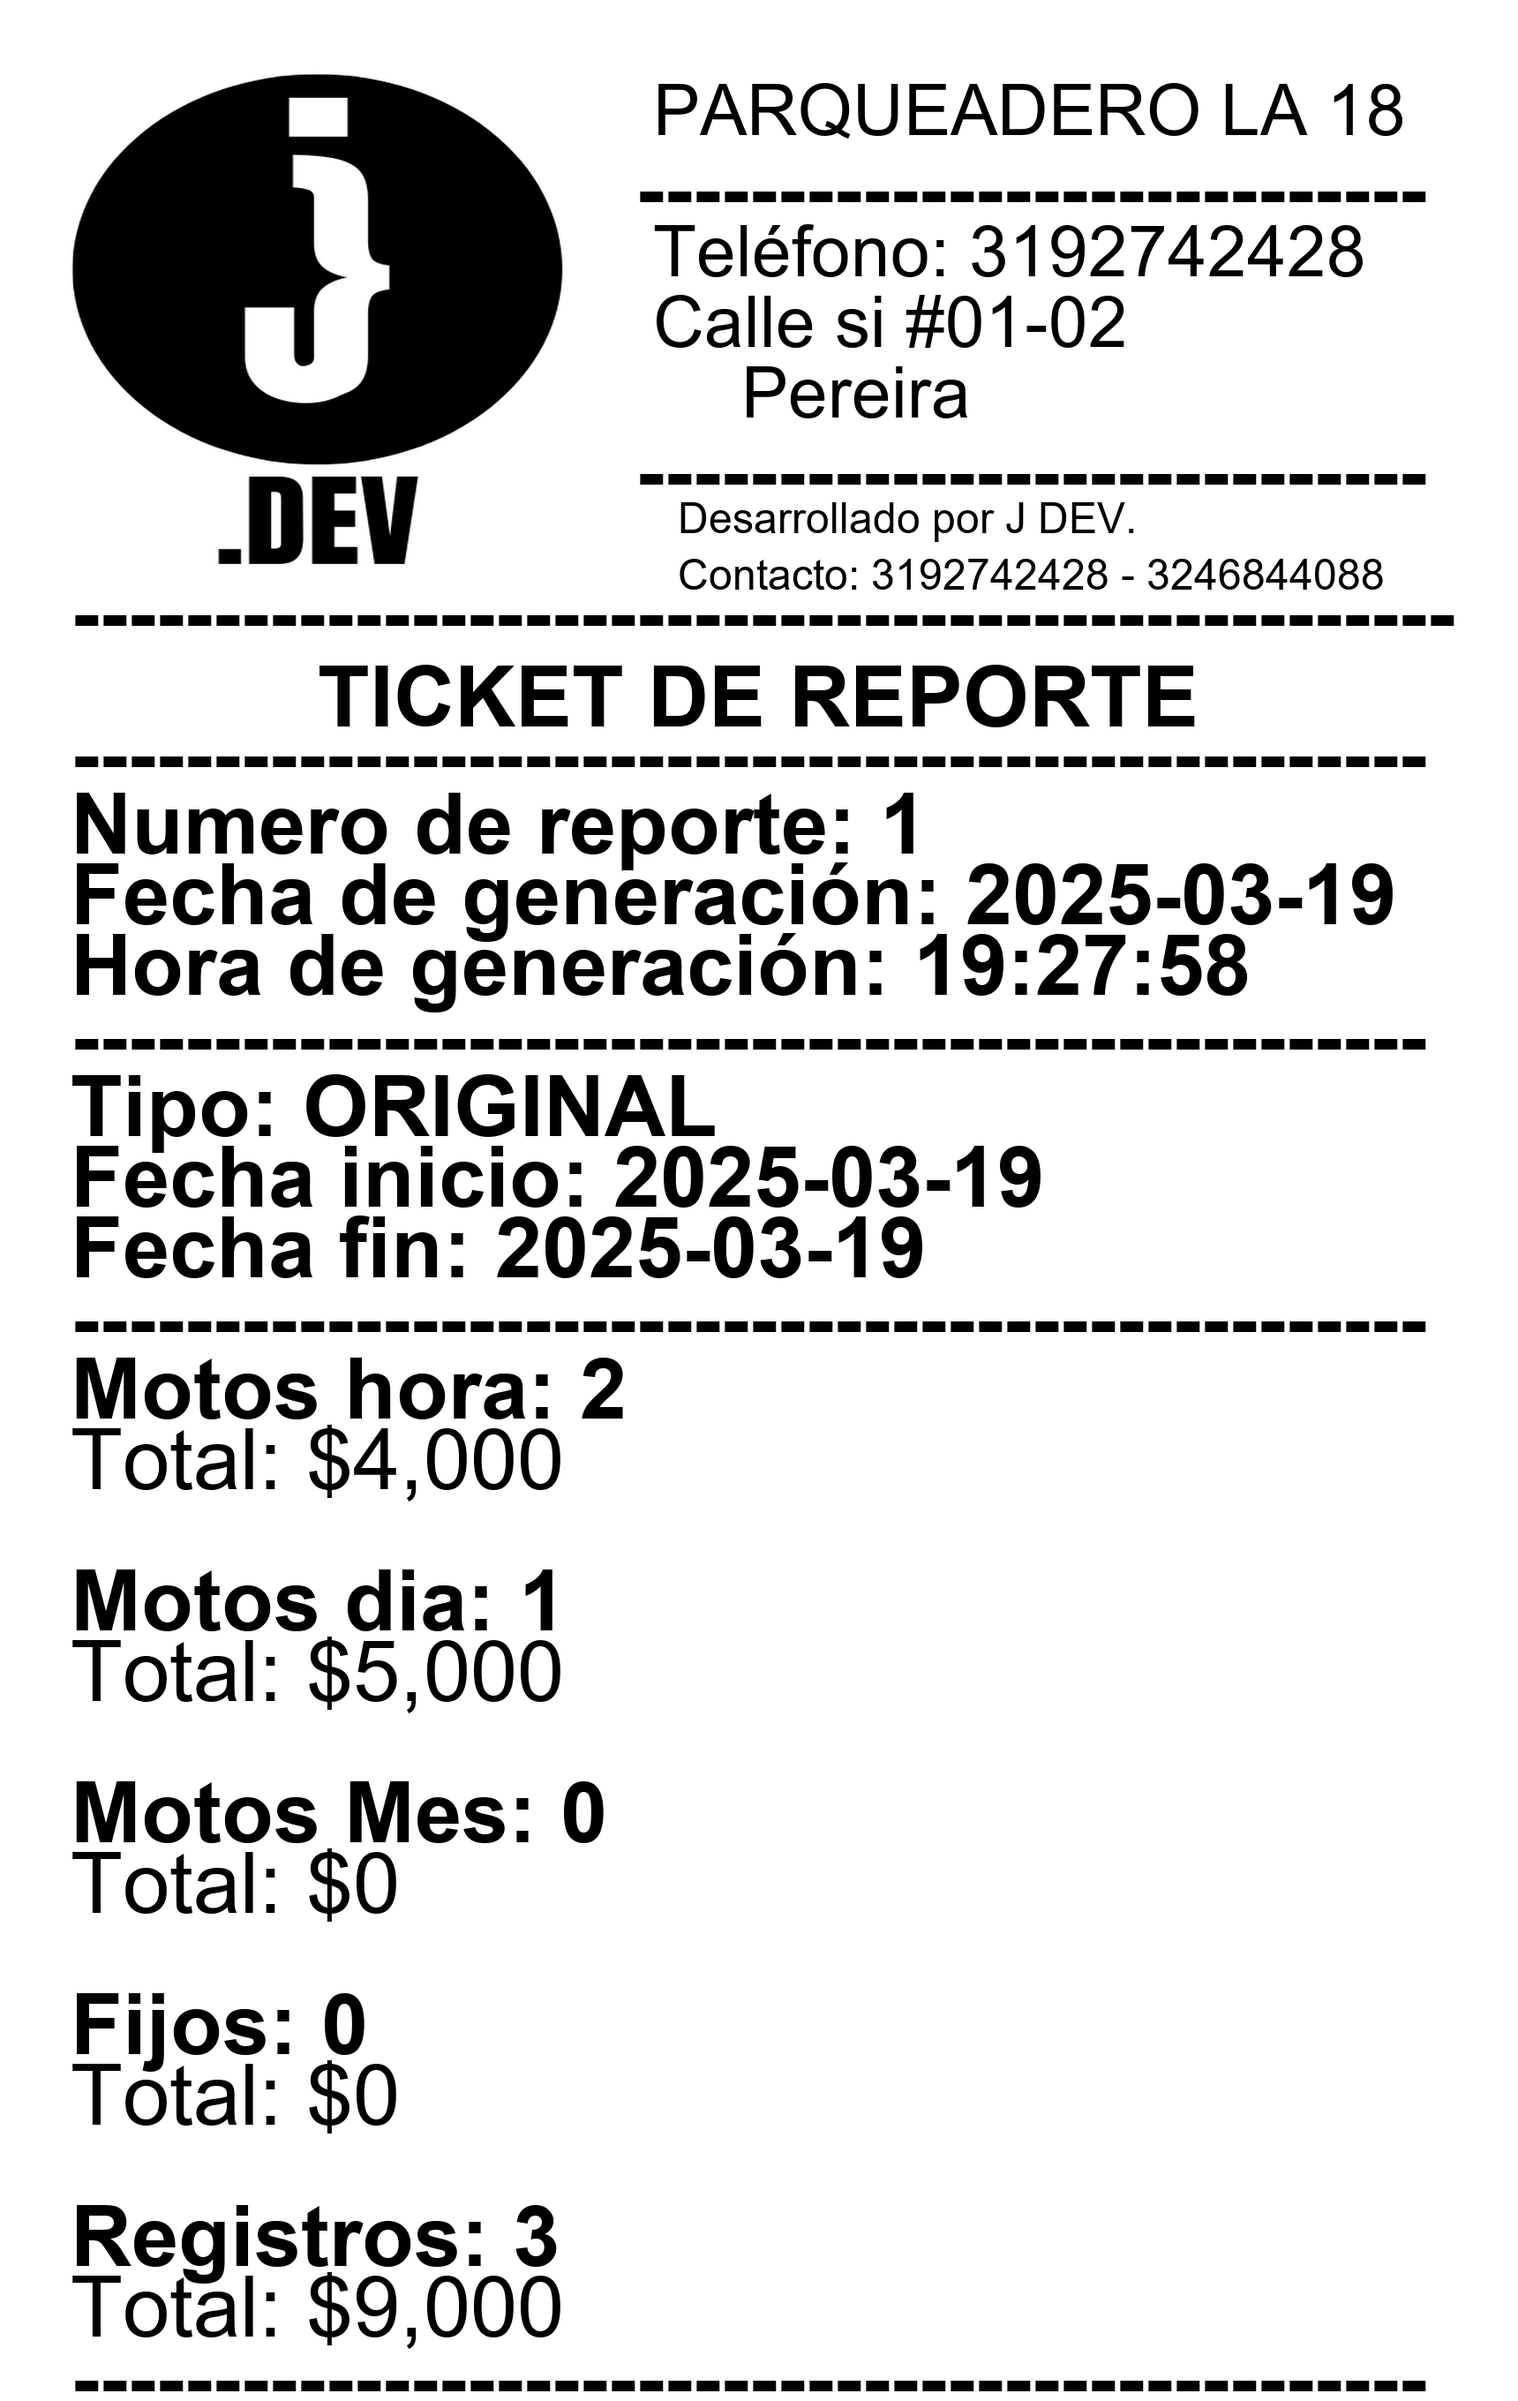
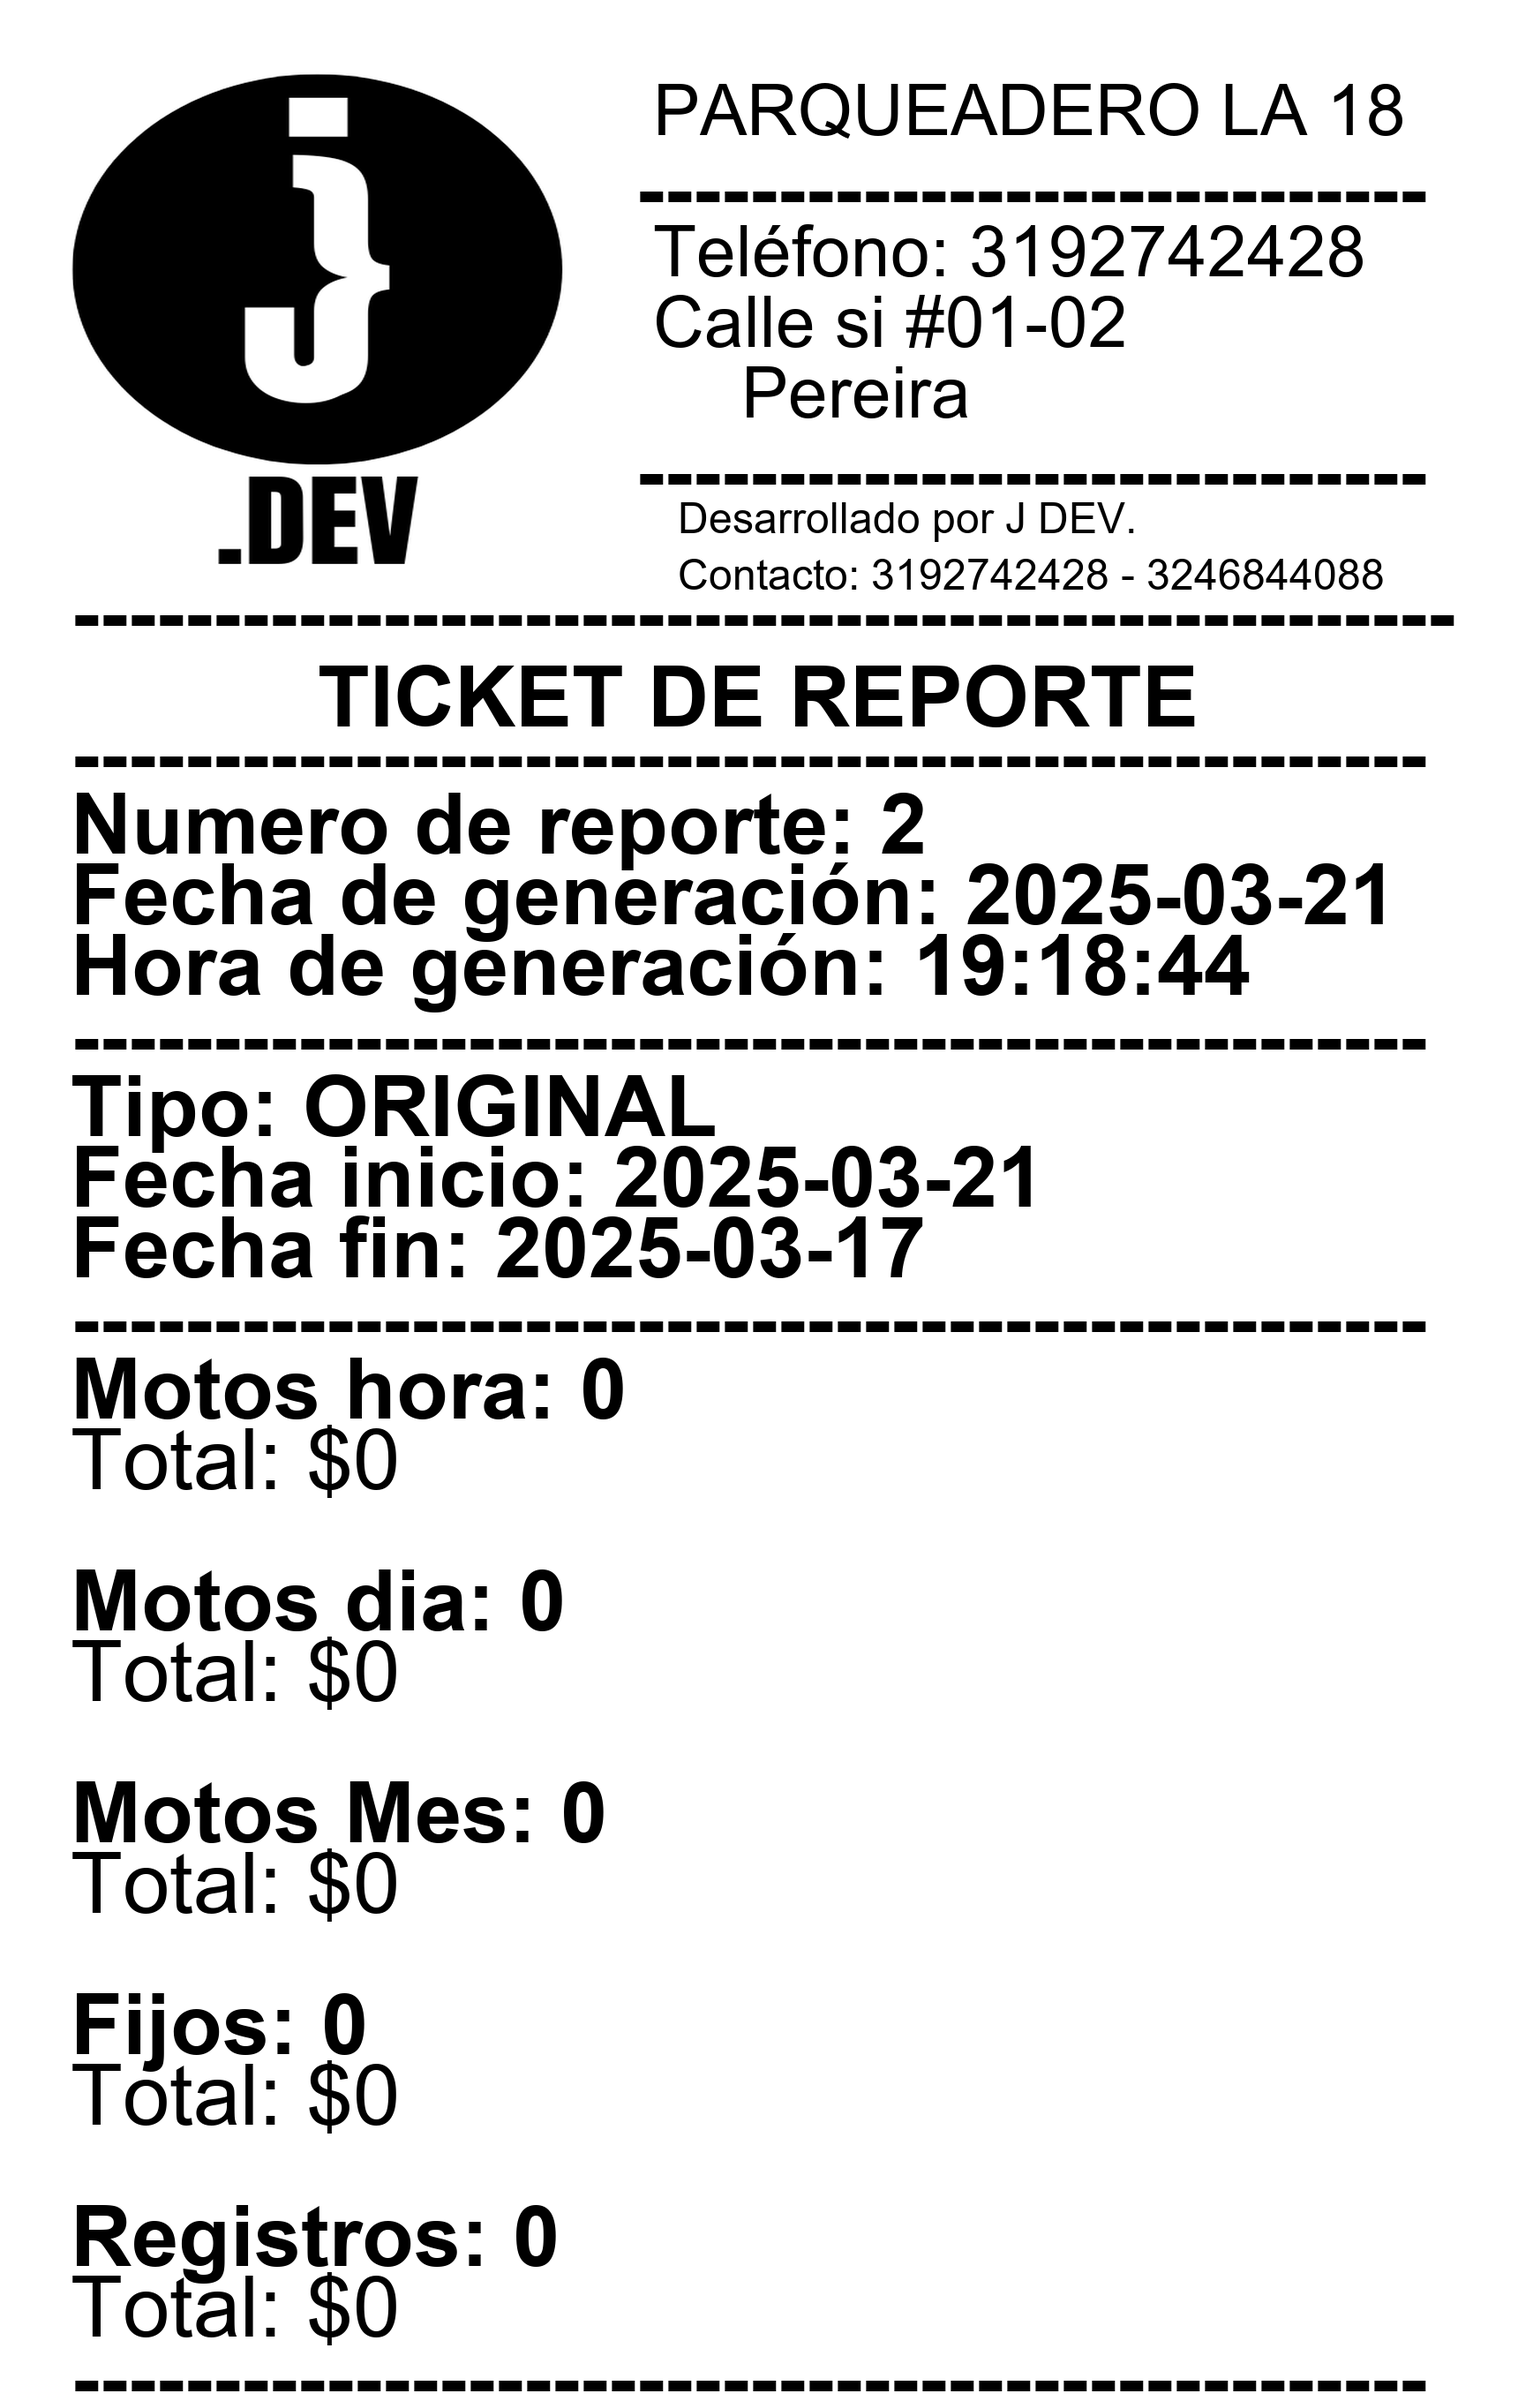
se arreglo el reporte limitando las casillas de fecha

diff --git a/pagina_Reportes.py b/pagina_Reportes.py
@@ -79,7 +79,8 @@ class PaginaReportes(QWidget):
             item_DineroTotalMotosFijos = QTableWidgetItem(str(registro['totalFijos']))
             item_DineroTotalMotosFijos.setTextAlignment(Qt.AlignCenter)
             self.tabla_registros.setItem(row_idx, 13, item_DineroTotalMotosFijos)
-
+    def actualizarFechaHasta(self, date=None):
+        self.date_hasta.setMinimumDate( self.date_desde.date())
     def initUI(self):
         # Crear la instancia de DatabaseConnection
         db_connection = DatabaseConnection.get_instance(DB_CONFIG)
@@ -198,33 +199,35 @@ class PaginaReportes(QWidget):
         label_desde.setStyleSheet("color: #FFFFFF;font-size: 40px;")
         layout_reportes.addWidget(label_desde, 6, 5, 1, 2, alignment=Qt.AlignTop | Qt.AlignCenter)
        # Date desde
-        date_desde = QDateEdit()
-        date_desde.setFixedWidth(240)
-        date_desde.setStyleSheet("color: #FFFFFF; margin: 0; padding: 0; font-size: 40px;")
-        date_desde.setCalendarPopup(True)  # Habilitar el popup de calendario
-        date_desde.setDate(QDate.currentDate())  # Establecer la fecha actual
-        date_desde.setMaximumDate(QDate.currentDate())  # Establecer la fecha máxima permitida como la fecha actual
-        date_desde.setDisplayFormat("yyyy-MM-dd")
-        calendarDesde_widget = date_desde.calendarWidget()
+        self.date_desde = QDateEdit()
+        self.date_desde.setFixedWidth(240)
+        self.date_desde.setStyleSheet("color: #FFFFFF; margin: 0; padding: 0; font-size: 40px;")
+        self.date_desde.setCalendarPopup(True)  # Habilitar el popup de calendario
+        self.date_desde.setDate(QDate.currentDate())  # Establecer la fecha actual
+        self.date_desde.setMaximumDate(QDate.currentDate())  # Establecer la fecha máxima permitida como la fecha actual
+        self.date_desde.setDisplayFormat("yyyy-MM-dd")
+        calendarDesde_widget = self.date_desde.calendarWidget()
         calendarDesde_widget.setStyleSheet("font-size: 20px;") 
         calendarDesde_widget.setStyleSheet("background-color: #222126; color: white; font-size: 20px; alternate-background-color: #131216;")
-        layout_reportes.addWidget(date_desde, 7, 5, 1, 2, alignment=Qt.AlignTop | Qt.AlignCenter)
+        layout_reportes.addWidget(self.date_desde, 7, 5, 1, 2, alignment=Qt.AlignTop | Qt.AlignCenter)
+        self.date_desde.dateChanged.connect(self.actualizarFechaHasta)
         # Crear el label "Hasta" y la textbox
         label_hasta = QLabel('Hasta')
         label_hasta.setStyleSheet("color: #FFFFFF;font-size: 40px;")
         layout_reportes.addWidget(label_hasta, 8, 5, 1, 2, alignment=Qt.AlignTop | Qt.AlignCenter)
        # Date hasta
-        date_hasta = QDateEdit()
-        date_hasta.setFixedWidth(240)
-        date_hasta.setStyleSheet("color: #FFFFFF; margin: 0; padding: 0; font-size: 40px;")
-        date_hasta.setCalendarPopup(True)  # Habilitar el popup de calendario
-        date_hasta.setDate(QDate.currentDate())  # Establecer la fecha actual
-        date_hasta.setMaximumDate(QDate.currentDate())  # Establecer la fecha máxima permitida como la fecha actual
-        date_hasta.setDisplayFormat("yyyy-MM-dd")
-        calendarhasta_widget = date_hasta.calendarWidget()
+        self.date_hasta = QDateEdit()
+        self.date_hasta.setFixedWidth(240)
+        self.date_hasta.setStyleSheet("color: #FFFFFF; margin: 0; padding: 0; font-size: 40px;")
+        self.date_hasta.setCalendarPopup(True)  # Habilitar el popup de calendario
+        self.date_hasta.setDate(QDate.currentDate())  # Establecer la fecha actual
+        self.date_hasta.setMaximumDate(QDate.currentDate())  # Establecer la fecha máxima permitida como la fecha actual
+        self.date_hasta.setMinimumDate(self.date_desde.date())
+        self.date_hasta.setDisplayFormat("yyyy-MM-dd")
+        calendarhasta_widget = self.date_hasta.calendarWidget()
         calendarhasta_widget.setStyleSheet("font-size: 20px;") 
         calendarhasta_widget.setStyleSheet("background-color: #222126; color: white; font-size: 20px; alternate-background-color: #131216;")
-        layout_reportes.addWidget(date_hasta, 9, 5, 1, 2, alignment=Qt.AlignTop | Qt.AlignCenter)
+        layout_reportes.addWidget(self.date_hasta, 9, 5, 1, 2, alignment=Qt.AlignTop | Qt.AlignCenter)
         page_reportes.setLayout(layout_reportes)
         self.stacked_widget.addWidget(page_reportes)
 
@@ -237,12 +240,12 @@ class PaginaReportes(QWidget):
          # Conectar el botón de imprimir a la función registrarMoto
         boton_imprimir.clicked.connect(lambda: [
             db_connection.consultarReporte(
-                date_desde.text(),
-                date_hasta.text(),
+                self.date_desde.text(),
+                self.date_hasta.text(),
                 "ORIGINAL"
         ),
-            date_desde.setMaximumDate(QDate.currentDate()),
-            date_hasta.setDate(QDate.currentDate()),
+            self.date_desde.setMaximumDate(QDate.currentDate()),
+            self.date_hasta.setDate(QDate.currentDate()),
             self.actualizarTablaRegistros()
 
         #self.senalActualizarTablaRegistroMotos.emit()
